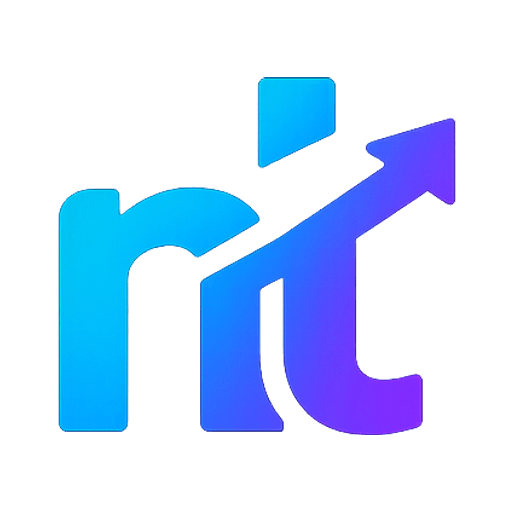
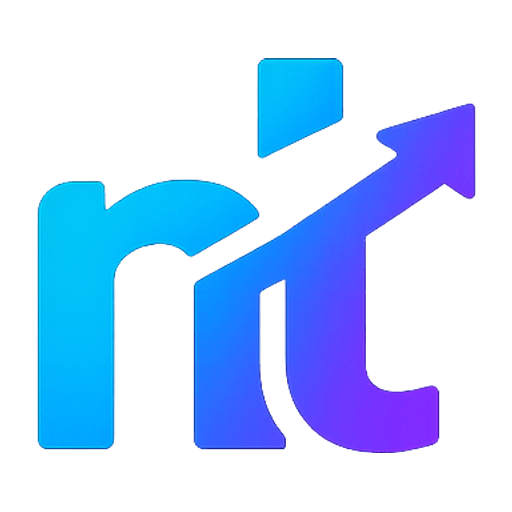
Deploy web app from Noob-Trader@456cd26

diff --git a/index.html b/index.html
@@ -36,7 +36,10 @@
   <meta name="apple-mobile-web-app-capable" content="yes">
   <meta name="apple-mobile-web-app-status-bar-style" content="black-translucent">
   <meta name="apple-mobile-web-app-title" content="NoobTrader">
-  <link rel="apple-touch-icon" href="/logo.png">
+  <!-- Must be OPAQUE and 180x180. iOS does not honour transparency in a home
+       screen icon — it composites onto black, so the old transparent 512px
+       logo.png produced a black tile with a small mark in it. -->
+  <link rel="apple-touch-icon" sizes="180x180" href="/apple-touch-icon.png">
   <script>
     // Captured at parse time, before anything else runs: Chrome fires this
     // once and early, and a listener registered later simply never sees it.
@@ -462,6 +465,12 @@
     @keyframes iosBounce {
       0%, 100% { transform: translateY(0); opacity: 0.55; }
       50%      { transform: translateY(8px); opacity: 1; }
+    }
+    /* Chrome and Edge on iOS put Share in the top address bar, so the arrow
+       is flipped and has to travel the other way. */
+    @keyframes iosBounceUp {
+      0%, 100% { transform: rotate(180deg) translateY(0); opacity: 0.55; }
+      50%      { transform: rotate(180deg) translateY(8px); opacity: 1; }
     }
 
     @media (prefers-reduced-motion: reduce) {
@@ -1347,18 +1356,18 @@
   <div class="ios-sheet" id="iosSheet" role="dialog" aria-modal="true" aria-labelledby="iosSheetTitle">
     <div class="ios-sheet-card">
       <h3 id="iosSheetTitle">Add NoobTrader to your Home Screen</h3>
-      <p>Apple doesn't let websites install themselves — it takes two taps.</p>
+      <p id="iosSheetIntro">Apple doesn't let websites install themselves — it takes two taps.</p>
       <div class="ios-step">
         <span class="ios-step-num">1</span>
         <svg viewBox="0 0 24 24" width="22" height="22" fill="none" stroke="currentColor" stroke-width="2" stroke-linecap="round" stroke-linejoin="round"><path d="M4 12v8a2 2 0 0 0 2 2h12a2 2 0 0 0 2-2v-8"/><polyline points="16 6 12 2 8 6"/><line x1="12" y1="2" x2="12" y2="15"/></svg>
-        Tap the Share button
+        <span id="iosStep1">Tap the Share button below</span>
       </div>
       <div class="ios-step">
         <span class="ios-step-num">2</span>
         <svg viewBox="0 0 24 24" width="22" height="22" fill="none" stroke="currentColor" stroke-width="2" stroke-linecap="round" stroke-linejoin="round"><rect x="3" y="3" width="18" height="18" rx="4"/><line x1="12" y1="8" x2="12" y2="16"/><line x1="8" y1="12" x2="16" y2="12"/></svg>
-        Choose “Add to Home Screen”
+        <span id="iosStep2">Choose “Add to Home Screen”</span>
       </div>
-      <svg class="ios-arrow" viewBox="0 0 24 24" width="26" height="26" fill="none" stroke="currentColor" stroke-width="2.5" stroke-linecap="round" stroke-linejoin="round"><line x1="12" y1="5" x2="12" y2="19"/><polyline points="19 12 12 19 5 12"/></svg>
+      <svg class="ios-arrow" id="iosArrow" viewBox="0 0 24 24" width="26" height="26" fill="none" stroke="currentColor" stroke-width="2.5" stroke-linecap="round" stroke-linejoin="round"><line x1="12" y1="5" x2="12" y2="19"/><polyline points="19 12 12 19 5 12"/></svg>
       <button class="ios-sheet-close" id="iosSheetClose">Got it</button>
     </div>
   </div>
@@ -1391,7 +1400,24 @@
       const isIOS = /iPad|iPhone|iPod/.test(ua) ||
         // iPadOS 13+ reports itself as a Mac; the touch points give it away.
         (navigator.platform === 'MacIntel' && navigator.maxTouchPoints > 1);
-      const isSafari = /^((?!chrome|android|crios|fxios|edgios).)*safari/i.test(ua);
+      // Every browser on iOS is Safari underneath, and Chrome, Edge and
+      // Firefox for iOS all expose "Add to Home Screen" in their own share
+      // menu. Gating on Safari alone left an iPhone user on Chrome with no
+      // button and no route in at all.
+      const isSafari = /^((?!crios|fxios|edgios|opt\/).)*safari/i.test(ua);
+      // Social in-app browsers (Instagram, Facebook, TikTok, LinkedIn…) run a
+      // WKWebView with NO Share → Add to Home Screen at all. They also omit
+      // the "Safari/" token that every real iOS browser carries. Handing them
+      // the Share instructions sends people looking for a button that is not
+      // there — they have to open the page in a real browser first.
+      const isInAppBrowser = /FBAN|FBAV|Instagram|LinkedInApp|Twitter|TikTok|MicroMessenger|Snapchat|Pinterest/i.test(ua) ||
+        (isIOS && !/Safari\//i.test(ua));
+      const iosBrowser = !isIOS ? null
+        : isInAppBrowser ? 'inapp'
+        : /crios/i.test(ua) ? 'chrome'
+        : /edgios/i.test(ua) ? 'edge'
+        : /fxios/i.test(ua) ? 'firefox'
+        : isSafari ? 'safari' : 'other';
       const installed = window.matchMedia('(display-mode: standalone)').matches ||
         window.navigator.standalone === true;
 
@@ -1415,7 +1441,7 @@
         if (hint) hint.textContent = 'Already installed — open it from your home screen any time.';
       } else if (window.__ntInstallEvent) {
         show();
-      } else if (isIOS && isSafari) {
+      } else if (isIOS) {
         show('Add to Home Screen');
       }
       // Chrome can fire the event after first paint, so listen for it too.
@@ -1434,7 +1460,38 @@
           if (outcome !== 'accepted' && steps) steps.hidden = false;
           return;
         }
-        if (isIOS) { sheet.classList.add('open'); return; }
+        if (isIOS) {
+          const step1 = document.getElementById('iosStep1');
+          const step2 = document.getElementById('iosStep2');
+          const intro = document.getElementById('iosSheetIntro');
+          const arrow = document.getElementById('iosArrow');
+
+          if (iosBrowser === 'inapp') {
+            // No Share → Add to Home Screen exists in here at all.
+            if (intro) intro.textContent = "This in-app browser can't add to your Home Screen. Open the page in Safari first — it takes one tap.";
+            if (step1) step1.textContent = 'Tap the ••• menu, then "Open in Safari"';
+            if (step2) step2.textContent = 'Then tap Share → "Add to Home Screen"';
+            if (arrow) arrow.style.display = 'none';
+            sheet.classList.add('open');
+            return;
+          }
+
+          // Point at the right place: Safari puts Share in the BOTTOM toolbar,
+          // Chrome and Edge for iOS put it in the address bar at the TOP.
+          const topBar = iosBrowser === 'chrome' || iosBrowser === 'edge' || iosBrowser === 'firefox';
+          if (step1) {
+            step1.textContent = topBar
+              ? 'Tap the Share button in the address bar at the top'
+              : 'Tap the Share button at the bottom of the screen';
+          }
+          if (arrow && topBar) {
+            // Flip the bouncing arrow to point up instead of down.
+            arrow.style.transform = 'rotate(180deg)';
+            arrow.style.animationName = 'iosBounceUp';
+          }
+          sheet.classList.add('open');
+          return;
+        }
         // No prompt and not iOS: the app itself still works in the browser.
         window.location.href = './app/';
       };

diff --git a/app/index.html b/app/index.html
@@ -4,19 +4,22 @@
     <meta charset="UTF-8" />
     <meta name="viewport" content="width=device-width, initial-scale=1.0, viewport-fit=cover" />
     <meta name="description" content="NoobTrader - Learn to trade shares, currencies and crypto with virtual currency. No real money. Real market data. Real fun!" />
-    <meta name="theme-color" content="#0a0f1a" />
+    <meta name="theme-color" content="#0a0e1a" />
     <meta name="apple-mobile-web-app-capable" content="yes" />
     <meta name="apple-mobile-web-app-status-bar-style" content="black-translucent" />
     <meta name="apple-mobile-web-app-title" content="NoobTrader" />
     <meta name="mobile-web-app-capable" content="yes" />
     <meta name="application-name" content="NoobTrader" />
-    <meta name="msapplication-TileColor" content="#0a0f1a" />
+    <meta name="msapplication-TileColor" content="#0a0e1a" />
     <meta property="og:title" content="NoobTrader - Learn Trading the Fun Way" />
     <meta property="og:description" content="Trade shares, currencies and crypto with virtual cash. Earn XP, compete in the Arena, and level up your money brain." />
     <meta property="og:type" content="website" />
     <link rel="icon" type="image/svg+xml" href="./logo-mark.svg" />
     <link rel="alternate icon" type="image/png" href="./logo.png" />
-    <link rel="apple-touch-icon" href="./logo.png" />
+    <!-- Opaque 180x180. iOS composites a home-screen icon onto BLACK rather
+         than honouring transparency, so the old transparent 512px logo.png
+         produced a black tile with a small mark floating in it. -->
+    <link rel="apple-touch-icon" sizes="180x180" href="./apple-touch-icon.png" />
     <link rel="manifest" href="./manifest.json" />
 
     <!-- Brand: Space Grotesk (800 for the RGB-fade noobtrader wordmark), JetBrains Mono for the tagline. Press Start 2P kept for legacy pixel UI accents. -->
@@ -39,6 +42,6 @@
     }
   </style>
   <body>
-    <div id="root"></div>
+    <div id="root"></div>
   </body>
 </html>

diff --git a/app/sw.js b/app/sw.js
@@ -14,12 +14,12 @@
  * hashed JS/CSS and brand images — is cached.
  */
 
-// 20260801094401 is replaced with the build timestamp by the swVersion() plugin in
+// 20260801120919 is replaced with the build timestamp by the swVersion() plugin in
 // vite.config.js. It MUST change every deploy: the activate handler deletes any
 // cache whose key does not start with VERSION, so a constant version means an
 // old shell can never be evicted. That is how a user ends up pinned to a build
 // from before a fix and reports the bug as still present.
-const VERSION = "nt-20260801094401";
+const VERSION = "nt-20260801120919";
 const SHELL = `${VERSION}-shell`;
 
 // Anything the app cannot function without. Scope-relative so this works under
